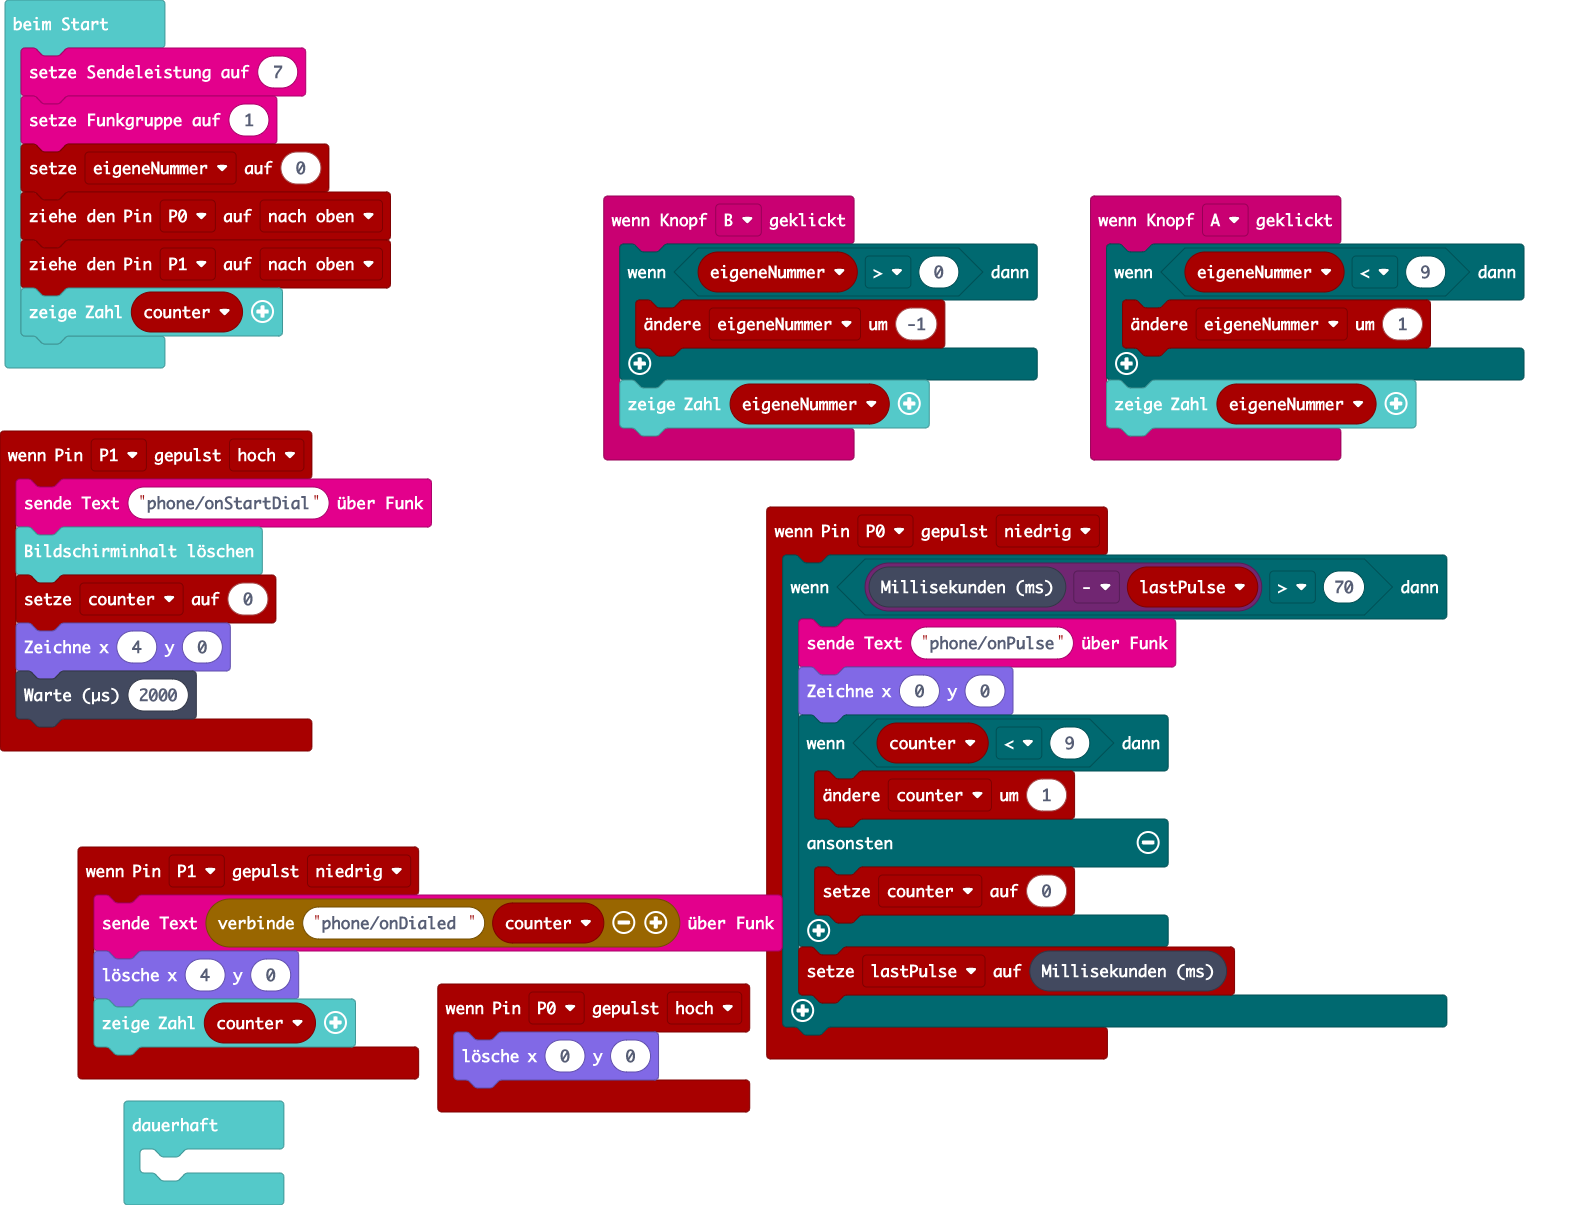
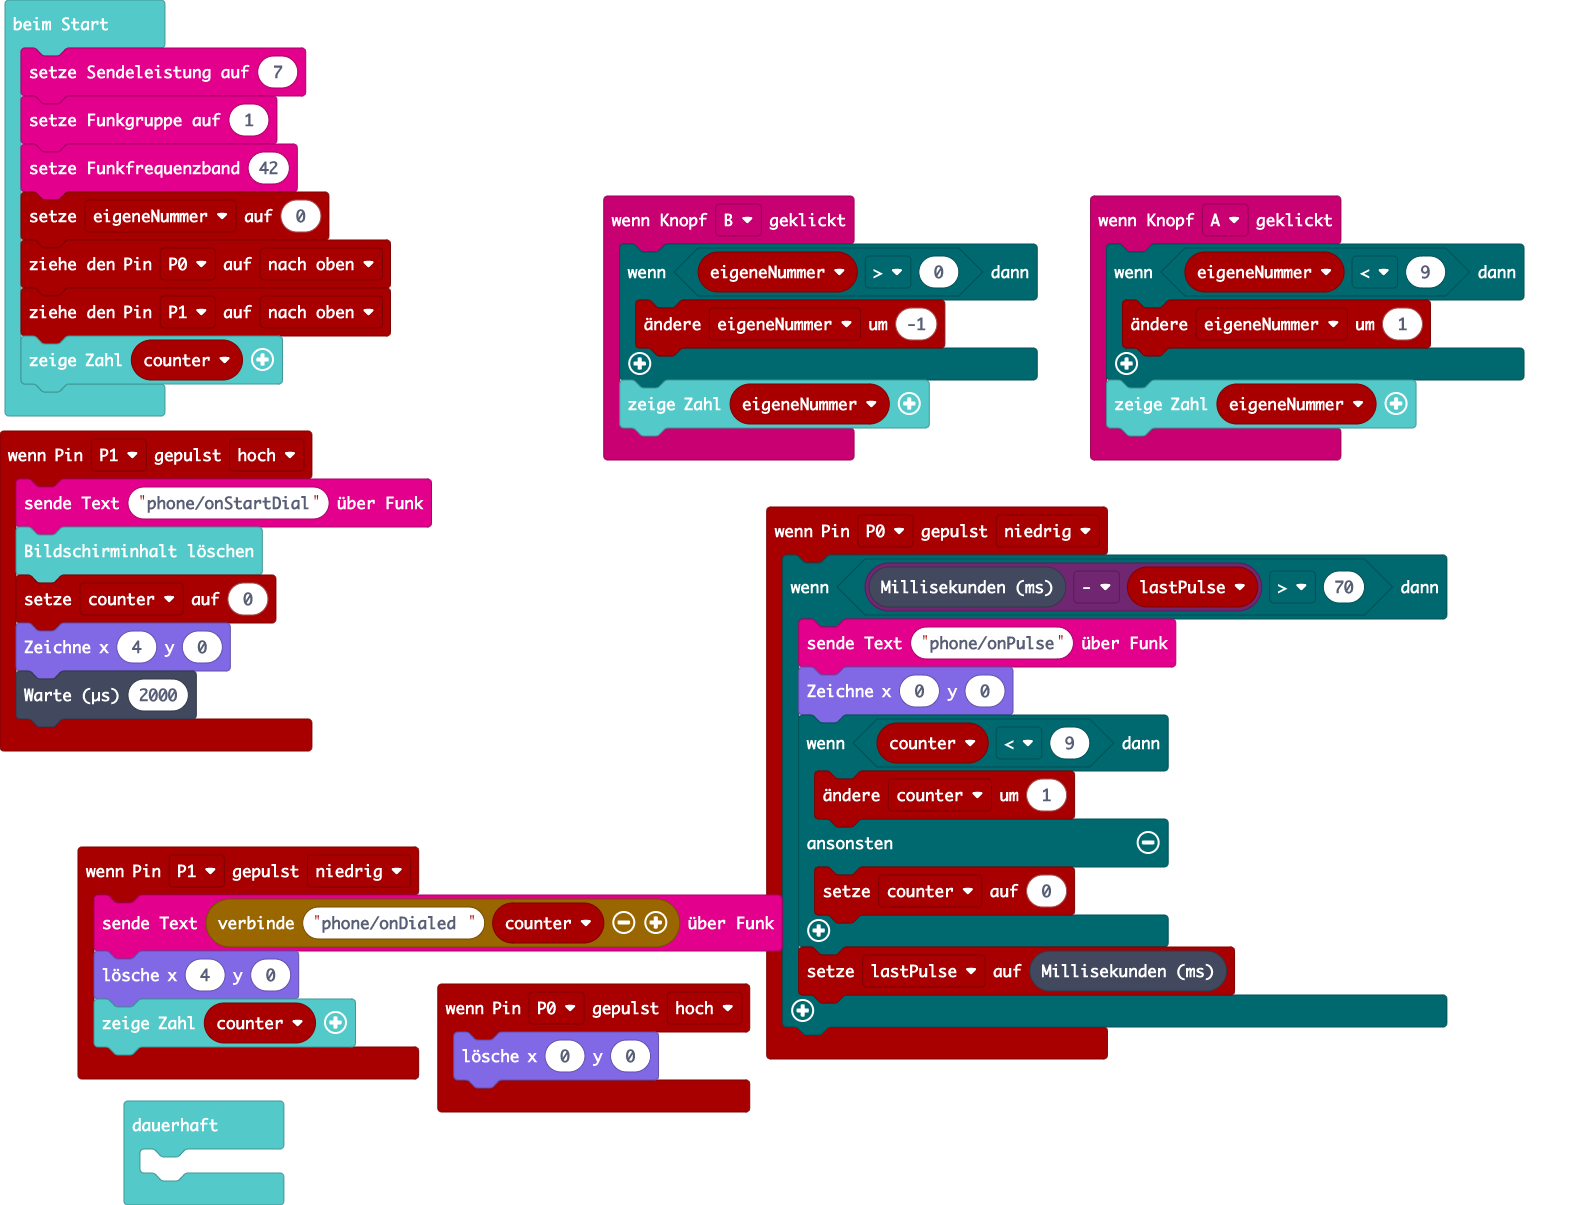
Change channel to 42

Changed region(s): [[0.0, 0.0921, 0.2487, 0.3685]]

diff --git a/main.ts b/main.ts
@@ -42,6 +42,7 @@ let counter = 0
 let eigeneNummer = 0
 radio.setTransmitPower(7)
 radio.setGroup(1)
+radio.setFrequencyBand(42)
 eigeneNummer = 0
 pins.setPull(DigitalPin.P0, PinPullMode.PullUp)
 pins.setPull(DigitalPin.P1, PinPullMode.PullUp)
